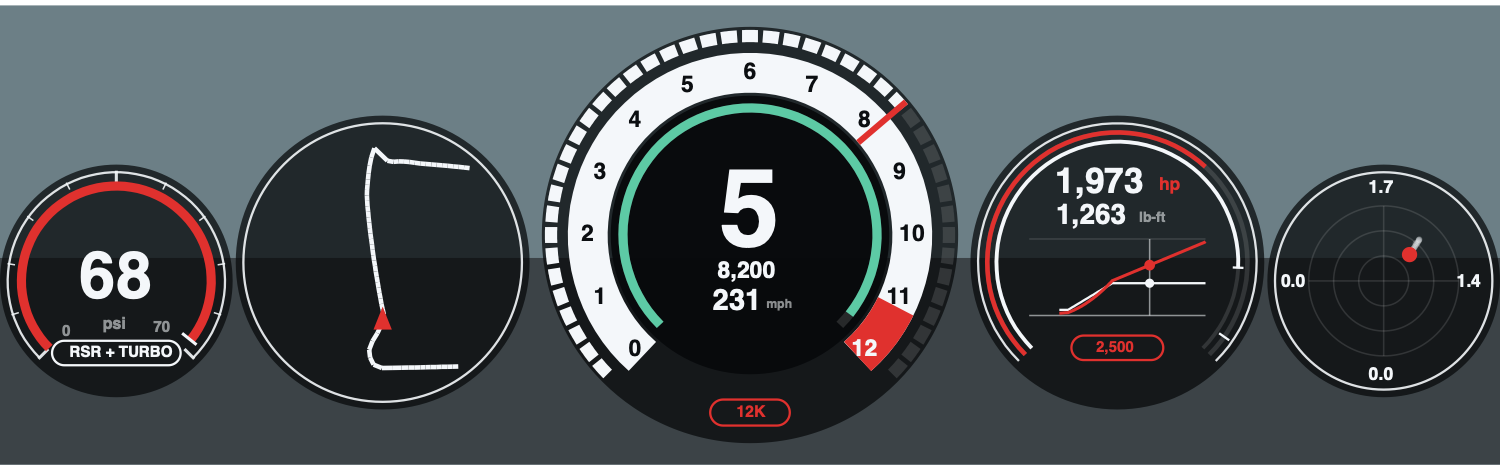
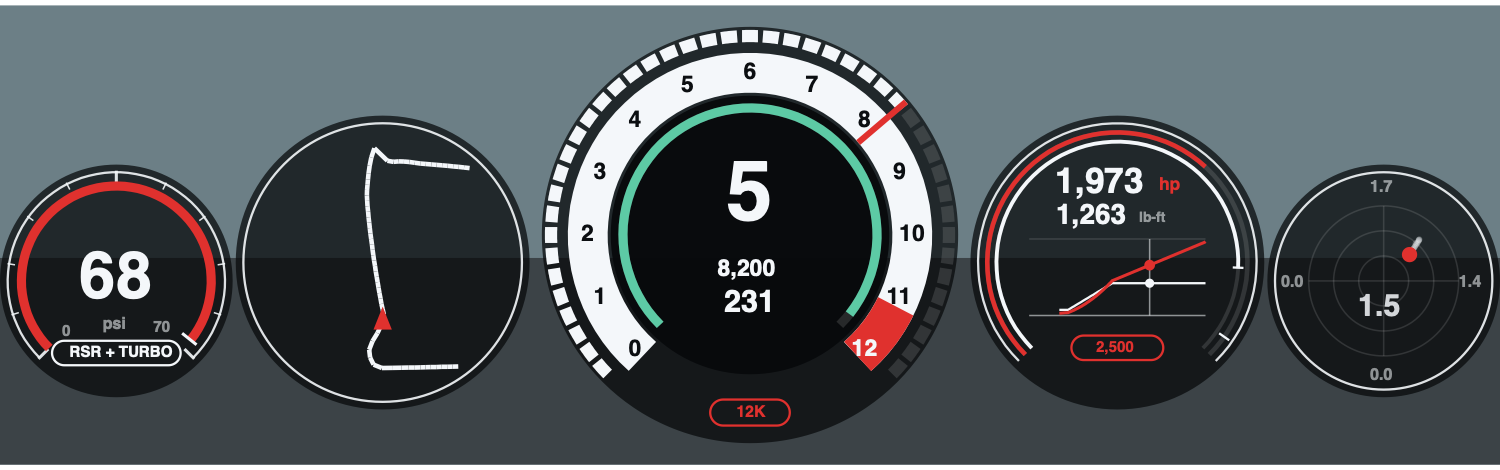
Cluster: smaller gear with room above the revs, speed with no unit, the current g in the middle of the g clock

diff --git a/results/README.md b/results/README.md
@@ -1,6 +1,6 @@
 # Lap log
 
-271 laps in 68 sessions, 2026-09-12 to 2026-11-12. Written by [`tools/session_report.py`](../tools/session_report.py) from Content Manager's saved sessions; the first lap of a session starts from the pits, so it is always slow.
+272 laps in 69 sessions, 2026-09-12 to 2026-11-12. Written by [`tools/session_report.py`](../tools/session_report.py) from Content Manager's saved sessions; the first lap of a session starts from the pits, so it is always slow.
 
 ## Ferrari F2004
 
@@ -102,6 +102,7 @@ Best lap **1:54.338** on 2026-11-11, on Slick tyres. Best sectors added together
 | 2026-11-11 23:03 | 1 | Slick | 4:08.978 | 4:08.978 | - |
 | 2026-11-11 23:43 | 1 | Slick | 7:11.695 | 7:11.695 | - |
 | 2026-11-12 00:03 | 2 | Slick | 2:52.800 | 2:52.800 | - |
+| 2026-11-12 00:22 | 1 | Slick | 3:23.383 | 3:23.383 | - |
 
 <details><summary>Every lap</summary>
 
@@ -143,6 +144,7 @@ Best lap **1:54.338** on 2026-11-11, on Slick tyres. Best sectors added together
 | 2026-11-11 | 1 | 7:11.695 | 3:22.028 | 2:41.775 | 1:07.892 | Slick |  |
 | 2026-11-12 | 1 | 3:45.987 | 1:52.308 | 0:59.953 | 0:53.726 | Slick |  |
 | 2026-11-12 | 2 | 2:52.800 | 1:18.416 | 0:58.339 | 0:36.045 | Slick |  |
+| 2026-11-12 | 1 | 3:23.383 | 1:27.072 | 1:01.762 | 0:54.549 | Slick |  |
 
 </details>
 
@@ -229,7 +231,7 @@ Best lap **6:59.801** on 2026-10-09, on Toyo R888R tyres. Best sectors added tog
 | Nordschleife | Porsche Carrera GT | 1 | 3 | 8:20.131 | Hypercar road | 8:20.131 | 2026-09-13 |
 | PCH - Southbound | Porsche 911 (992) GT3 RS Weissach Package / No Hesi Spec | 1 | 1 | 11:29.542 | Toyo R888R | - | 2026-09-12 |
 | Road America | Ferrari F2004 | 4 | 30 | 1:43.726 | M | 1:42.349 | 2026-11-11 |
-| Road America | Porsche 911 GT2 RS / 2000hp MONSTER | 10 | 36 | 1:54.338 | Slick | 1:53.441 | 2026-11-12 |
+| Road America | Porsche 911 GT2 RS / 2000hp MONSTER | 11 | 37 | 1:54.338 | Slick | 1:53.441 | 2026-11-12 |
 | Road America | Porsche 911 (992) GT3 RS Weissach Package / No Hesi Spec | 5 | 40 | 2:02.617 | Toyo R888R | 2:01.908 | 2026-09-25 |
 | Road America | Ferrari F138 | 1 | 5 | 2:07.539 | M | 1:56.999 | 2026-09-15 |
 | Road America | Ferrari FXX K | 1 | 5 | 2:10.376 | M | 2:09.726 | 2026-09-16 |
